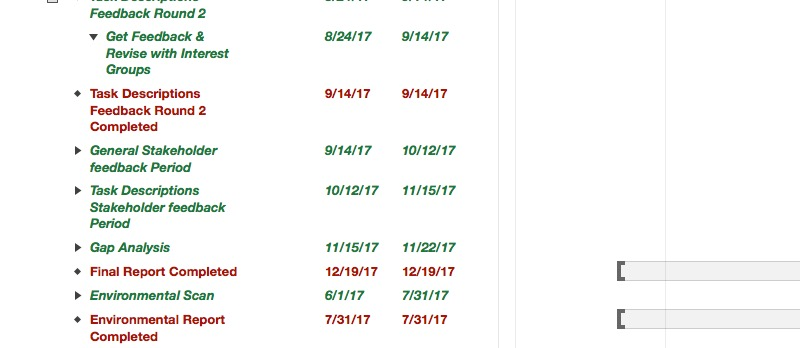
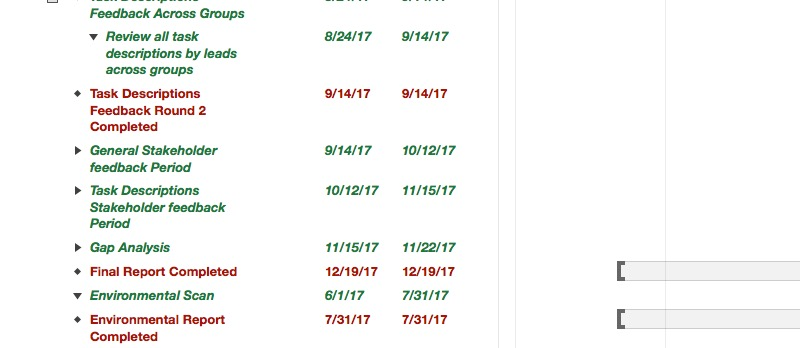
July 10 update

Changed region(s): [[0.125, 0.0862, 0.3125, 0.2299], [0.1875, 0.0287, 0.3125, 0.0575]]

diff --git a/task.html b/task.html
@@ -135,7 +135,7 @@
                 <td>12/14/16</td>
                 <td>6/16/17</td>
                 <td>6mo 3w 2d 4h</td>
-                <td>71%</td>
+                <td>90%</td>
                 <td></td>
                 <td></td>
                 <td>12/14/16</td>
@@ -145,11 +145,11 @@
             </tr>
             
             <tr class="taskTypeGroup">
-                <td style="padding-left: 28px;" class="wrap">4.1) Writeup Task Descriptions</td>
+                <td style="padding-left: 28px;" class="wrap">4.1) Finish Analysis Task Descriptions</td>
                 <td>12/14/16</td>
                 <td>4/27/17</td>
                 <td>4mo 3w 2d</td>
-                <td>88%</td>
+                <td>100%</td>
                 <td></td>
                 <td></td>
                 <td>12/14/16</td>
@@ -163,7 +163,7 @@
                 <td>4/27/17</td>
                 <td>4/27/17</td>
                 <td></td>
-                <td>0%</td>
+                <td>100%</td>
                 <td>4.1</td>
                 <td></td>
                 <td>4/11/17</td>
@@ -173,11 +173,11 @@
             </tr>
             
             <tr class="taskTypeGroup">
-                <td style="padding-left: 28px;" class="wrap">4.3) Get Feedback from Interest Groups by Leads </td>
+                <td style="padding-left: 28px;" class="wrap">4.3) Write up TDs </td>
                 <td>1/16/17</td>
                 <td>5/30/17</td>
                 <td>5mo 1w 2d 3h</td>
-                <td>54%</td>
+                <td>79%</td>
                 <td>3.3.2</td>
                 <td></td>
                 <td>1/13/17</td>
@@ -187,11 +187,11 @@
             </tr>
             
             <tr class="taskTypeGroup">
-                <td style="padding-left: 28px;" class="wrap">4.4) Revise Write ups based on Feedback by Leads (TD Review 1)</td>
+                <td style="padding-left: 28px;" class="wrap">4.4) Revise Write ups based on Feedback with Leads (TD Review 1)</td>
                 <td>1/30/17</td>
                 <td>6/16/17</td>
                 <td>5mo 2w 1d 5h</td>
-                <td>37%</td>
+                <td>72%</td>
                 <td></td>
                 <td></td>
                 <td>1/26/17</td>
@@ -215,11 +215,11 @@
             </tr>
             
             <tr class="taskTypeGroup">
-                <td style="padding-left: 18px;" class="wrap">6) Task Descriptions Interest Group Review 1</td>
+                <td style="padding-left: 18px;" class="wrap">6) Task Descriptions Interest Group Review 1 (TD Review 2)</td>
                 <td>6/16/17</td>
                 <td>8/23/17</td>
                 <td>2mo 2w 2d 4h</td>
-                <td>0%</td>
+                <td>11%</td>
                 <td></td>
                 <td></td>
                 <td>5/29/17</td>
@@ -229,11 +229,11 @@
             </tr>
             
             <tr class="taskTypeGroup">
-                <td style="padding-left: 28px;" class="wrap">6.1) Review all task descriptions by leads across groups</td>
+                <td style="padding-left: 28px;" class="wrap">6.1) Review all task descriptions by leads with interest groups</td>
                 <td>6/16/17</td>
                 <td>8/1/17</td>
                 <td>1mo 3w 4h</td>
-                <td>0%</td>
+                <td>16%</td>
                 <td>5</td>
                 <td></td>
                 <td>5/29/17</td>
@@ -285,7 +285,7 @@
             </tr>
             
             <tr class="taskTypeGroup">
-                <td style="padding-left: 18px;" class="wrap">8) Task Descriptions Feedback Round 2</td>
+                <td style="padding-left: 18px;" class="wrap">8) Task Descriptions Feedback Across Groups</td>
                 <td>8/24/17</td>
                 <td>9/14/17</td>
                 <td>3w 1d 5h</td>
@@ -299,7 +299,7 @@
             </tr>
             
             <tr class="taskTypeGroup">
-                <td style="padding-left: 28px;" class="wrap">8.1) Get Feedback &amp; Revise with Interest Groups</td>
+                <td style="padding-left: 28px;" class="wrap">8.1) Review all task descriptions by leads across groups</td>
                 <td>8/24/17</td>
                 <td>9/14/17</td>
                 <td>3w 1d 5h</td>
@@ -456,6 +456,6 @@
         </div><!-- end table wrap -->
 	</div>
     </div><!-- end contentwrap -->
-	 <p class="exported">Exported 6/13/17</p>
+	 <p class="exported">Exported 7/7/17</p>
 </body>
 </html>

diff --git a/index.html b/index.html
@@ -25,8 +25,8 @@
 			<p class="number"><span class="data-missing">None</span></p>
 		</div>
 		<div id="completed" class="box">
-			<h2><span class="number">37%</span> Completed</h2>
-			<div id="bar"><div id="fill" style="width:37%;"></div></div>
+			<h2><span class="number">47%</span> Completed</h2>
+			<div id="bar"><div id="fill" style="width:47%;"></div></div>
 			<p><span class="label">Start:</span> 10/24/16</p>
 			<p><span class="label">End Date:</span> 12/19/17</p>
 			<p><span class="label">Variance:</span> 1w 3d 1h</p>
@@ -53,7 +53,7 @@
                 <td>10/24/16</td>
                 <td>12/19/17</td>
                 <td>&gt; 7mo 2w 3d 4h</td>
-                <td>50%</td>
+                <td>54%</td>
                 <td></td>
             </tr>
             
@@ -62,7 +62,7 @@
                 <td>11/22/16</td>
                 <td>11/22/17</td>
                 <td>&gt; 4mo 1w 4d 5.25h</td>
-                <td>11%</td>
+                <td>25%</td>
                 <td></td>
             </tr>
             
@@ -80,7 +80,7 @@
                 <td>11/22/16</td>
                 <td>9/5/17</td>
                 <td>3mo 1w 5h</td>
-                <td>72%</td>
+                <td>85%</td>
                 <td></td>
             </tr>
             
@@ -89,7 +89,7 @@
                 <td>11/22/16</td>
                 <td>9/5/17</td>
                 <td>3mo 3w 1d 2h</td>
-                <td>71%</td>
+                <td>85%</td>
                 <td></td>
             </tr>
             
@@ -98,7 +98,7 @@
                 <td>11/22/16</td>
                 <td>9/14/17</td>
                 <td>&gt; 7mo 2w 3d 5.5h</td>
-                <td>56%</td>
+                <td>73%</td>
                 <td></td>
             </tr>
             
@@ -134,7 +134,7 @@
                 <td>1/31/17</td>
                 <td>9/5/17</td>
                 <td>3mo 3w 2d 5h</td>
-                <td>71%</td>
+                <td>84%</td>
                 <td></td>
             </tr>
             
@@ -152,7 +152,7 @@
                 <td>4/28/17</td>
                 <td>8/31/17</td>
                 <td>2mo 2w 1d 4h</td>
-                <td>13%</td>
+                <td>26%</td>
                 <td></td>
             </tr>
             
@@ -231,6 +231,6 @@
        
             </div><!-- end content-->
 	</div><!-- end contentwrap -->
-	 <p class="exported">Exported 6/13/17</p>
+	 <p class="exported">Exported 7/7/17</p>
 
 </body>	

diff --git a/gantt.html b/gantt.html
@@ -23,17 +23,17 @@
 	<h1>Strategic Systems Analysis: Gantt Chart</h1>
 		<div class="tablewrap"><table border="0" cellspacing="0" cellpadding="0">
 <tr>
-	<td><img src="include/gantt0,0.jpg?nocacheTag=-272898048" border=0/></td>
-	<td><img src="include/gantt1,0.jpg?nocacheTag=-963397258" border=0/></td>
+	<td><img src="include/gantt0,0.jpg?nocacheTag=-369613528" border=0/></td>
+	<td><img src="include/gantt1,0.jpg?nocacheTag=1824181315" border=0/></td>
 </tr>
 <tr>
-	<td><img src="include/gantt0,1.jpg?nocacheTag=780140426" border=0/></td>
-	<td><img src="include/gantt1,1.jpg?nocacheTag=1935840177" border=0/></td>
+	<td><img src="include/gantt0,1.jpg?nocacheTag=-1694173589" border=0/></td>
+	<td><img src="include/gantt1,1.jpg?nocacheTag=1391691921" border=0/></td>
 </tr>
 </table>
 </div>
 		</div>
 	</div><!-- end contentwrap -->
-	 <p class="exported">Exported 6/13/17</p>
+	 <p class="exported">Exported 7/7/17</p>
 
 </body>	
